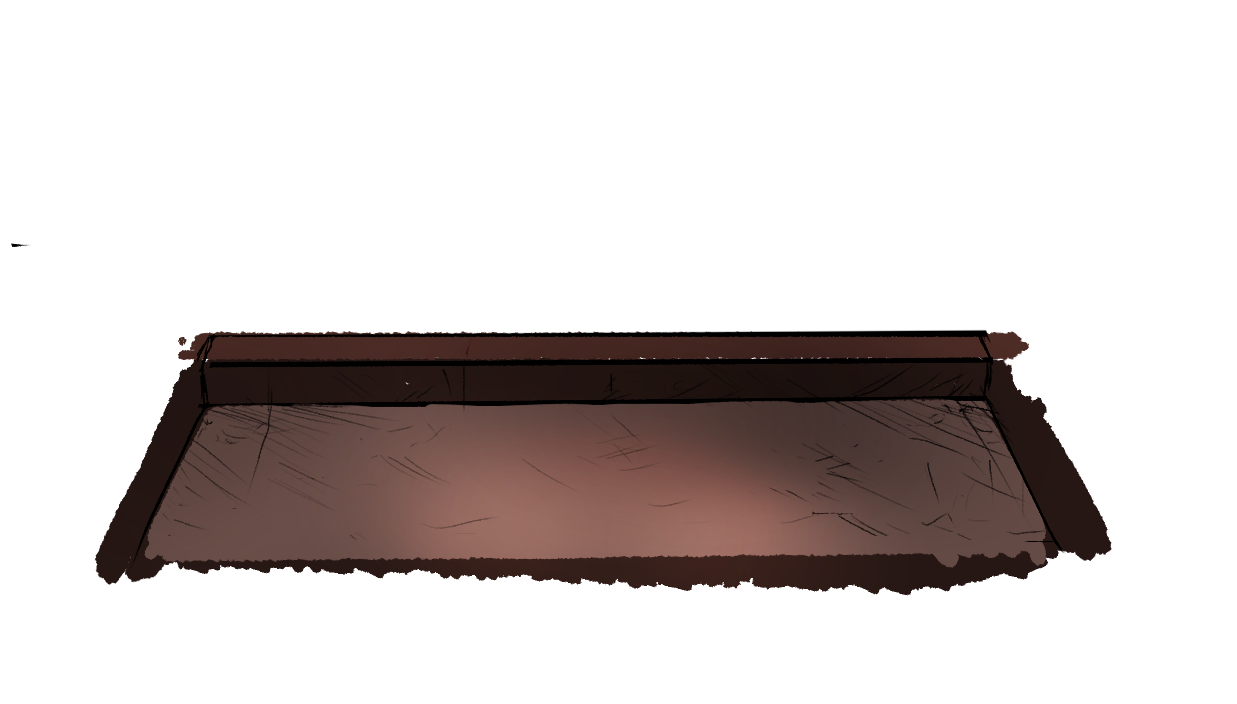
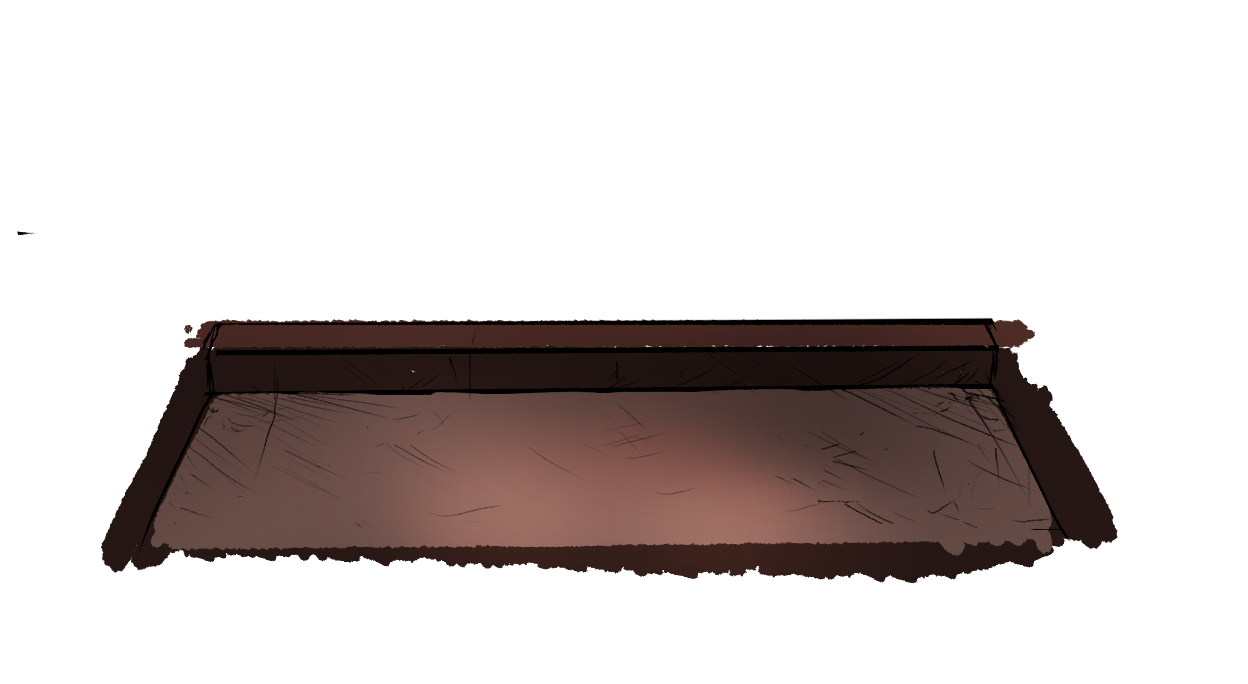
ethan art

diff --git a/breeder_game.py b/breeder_game.py
@@ -37,10 +37,11 @@ class BreederGame:
         self.cage1 = utils.load_image("breeder/cage-1.png")
         self.cage2 = utils.load_image("breeder/cage-2.png")
         self.cage3 = utils.load_image("breeder/cage-3.png")
+        self.cage4 = utils.load_image("breeder/cage-4.png")
         self.cage1 = pygame.transform.scale(self.cage1, (1000,400))
         self.cage2 = pygame.transform.scale(self.cage2, (1000,400))
         self.cage3 = pygame.transform.scale(self.cage3, (1000,400))
-
+        self.cage4 = pygame.transform.scale(self.cage4, (1000,400))
         self.bg = utils.load_image("breeder/02-breeding-room.png")
 
         self.player = Wolf(self)
@@ -94,13 +95,15 @@ class BreederGame:
         self.screen.blit(self.bg, (0, 0))
 
         self.screen.blit(self.cage1, (-50,350))
+        self.screen.blit(self.cage3, (-50,350))
+
         for rat in range(len(self.rats)):
             self.rats[rat].update()
             self.rats[rat].render()
         self.crow.update()
         self.crow.render()
         self.screen.blit(self.cage2, (-50,350))
-        self.screen.blit(self.cage3, (-50,350))
+        self.screen.blit(self.cage4, (-50,350))
         self.player.shadow()
         
         # self.screen.blit(pygame.transform.scale(self.screen, self.screen.get_size()), (0, 0))
